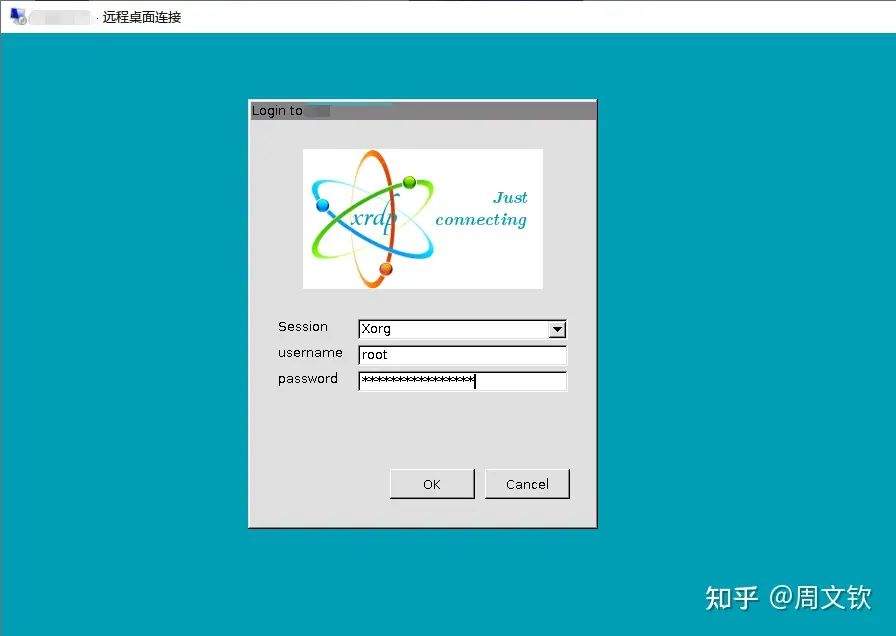
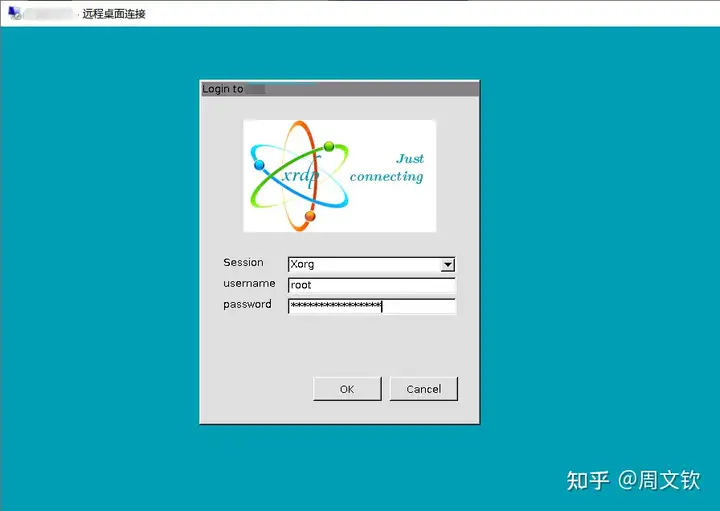
deploy: 5de2507b55166635e990d637f8d2351f2e15a27f

diff --git a/posts/linux/deepin_xrdp/index.html b/posts/linux/deepin_xrdp/index.html
@@ -78,7 +78,7 @@
 <p>重启deepin，使用Xorg模式登录
 <figure>
 <picture>
-<img loading=lazy decoding=async alt class="image_figure image_external image_processed" width=896 height=636 src=/images/v2-9d0e56840db9b195ebb2518d9ed42331_720w_17515486647111456748.webp>
+<img loading=lazy decoding=async alt class="image_figure image_external image_processed" width=720 height=511 src=/images/v2-9d0e56840db9b195ebb2518d9ed42331_720w_17515486647111456748.webp>
 </picture>
 </figure>
 </p>
